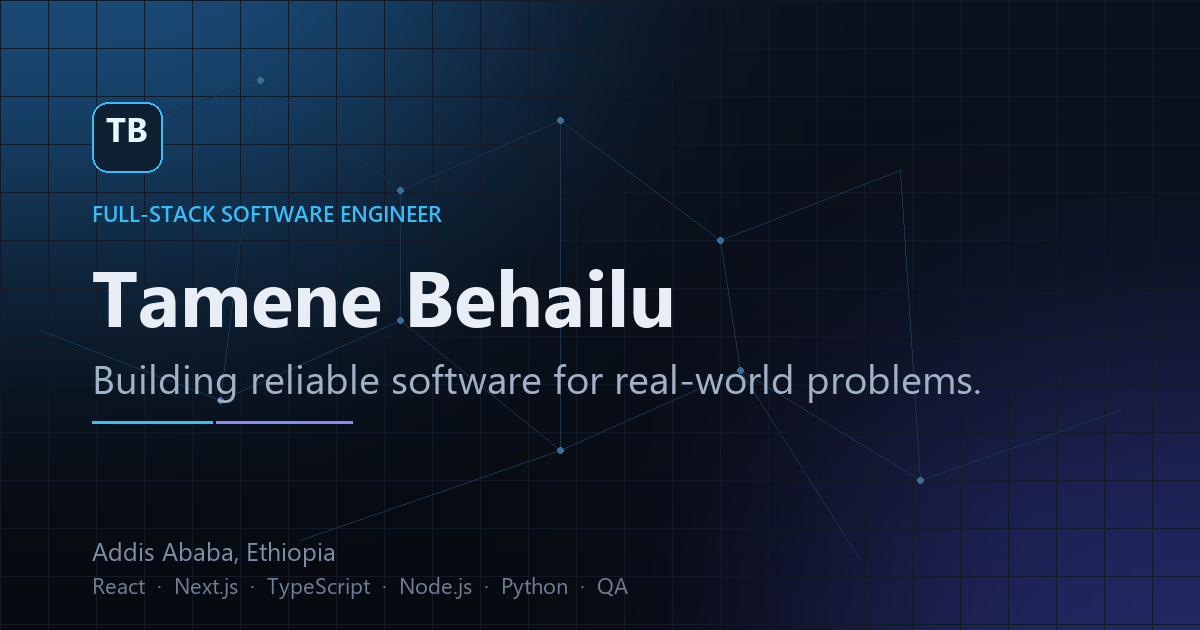
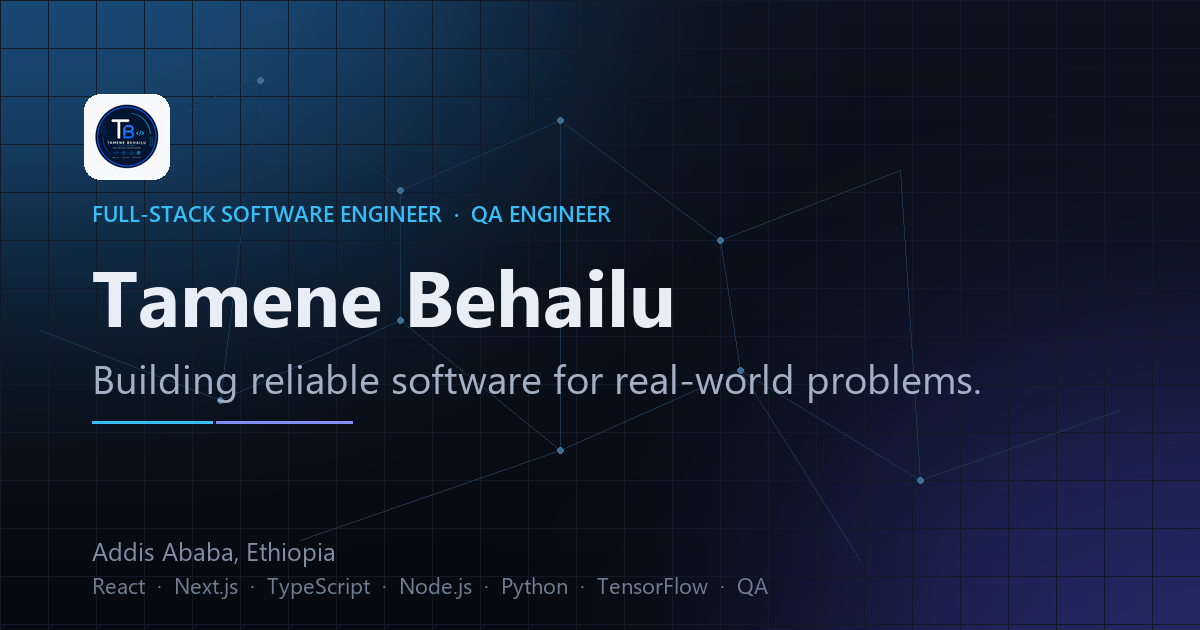
refactor: simplify the Open Graph image generator
Drops the unused monogram font, a dead font fallback expression and a
no-op blend, and composites the real logo instead of letters. The card is
regenerated from the cleaned script, so the committed PNG stays in sync with
the code that produces it.

diff --git a/tools/make-og.py b/tools/make-og.py
@@ -26,9 +26,7 @@ gd = ImageDraw.Draw(glow)
 gd.ellipse([-220, -300, 520, 250], fill=(14, 58, 92))
 gd.ellipse([820, 380, 1420, 820], fill=(28, 30, 86))
 glow = glow.filter(ImageFilter.GaussianBlur(140))
-img = Image.blend(img, Image.new("RGB", (W, H), (0, 0, 0)), 0.0)
-px_img = img
-px = px_img.load()
+px = img.load()
 gp = glow.load()
 for y in range(H):
     for x in range(W):
@@ -61,24 +59,25 @@ SEGOE = "C:/Windows/Fonts/segoeui.ttf"
 SEGOE_B = "C:/Windows/Fonts/segoeuib.ttf"
 SEGOE_SB = "C:/Windows/Fonts/seguisb.ttf"
 
-f_eyebrow = ImageFont.truetype("C:/Windows/Fonts/consola.ttf", 21) if False else ImageFont.truetype(SEGOE_SB, 22)
+f_eyebrow = ImageFont.truetype(SEGOE_SB, 22)
 f_name    = ImageFont.truetype(SEGOE_B, 78)
 f_title   = ImageFont.truetype(SEGOE, 40)
 f_meta    = ImageFont.truetype(SEGOE, 25)
-f_mark    = ImageFont.truetype(SEGOE_B, 34)
 
 LEFT = 92
 TOP  = 190
 
-# monogram
-d.rounded_rectangle([LEFT, TOP-88, LEFT+70, TOP-18], radius=16,
-                    fill=(14, 32, 50), outline=(56,189,248), width=2)
-tb = "TB"
-bb = d.textbbox((0,0), tb, font=f_mark)
-d.text((LEFT + (70-(bb[2]-bb[0]))/2 - bb[0], TOP-72 - bb[1]), tb, font=f_mark, fill=(232,246,255))
+# logo — the supplied personal logo, on its own light plate (it is opaque
+# near-white by design, which reads correctly on this dark card)
+LOGO = Image.open("assets/images/logo.png").convert("RGB").resize((70, 70), Image.LANCZOS)
+plate = Image.new("RGB", (86, 86), (248, 249, 250))
+plate.paste(LOGO, (8, 8))
+mask = Image.new("L", (86, 86), 0)
+ImageDraw.Draw(mask).rounded_rectangle([0, 0, 85, 85], radius=16, fill=255)
+img.paste(plate, (LEFT - 8, TOP - 96), mask)
 
 # eyebrow
-d.text((LEFT, TOP+8), "FULL-STACK SOFTWARE ENGINEER", font=f_eyebrow, fill=ACCENT)
+d.text((LEFT, TOP+8), "FULL-STACK SOFTWARE ENGINEER  ·  QA ENGINEER", font=f_eyebrow, fill=ACCENT)
 
 # name
 d.text((LEFT, TOP+52), "Tamene Behailu", font=f_name, fill=TEXT)
@@ -92,7 +91,7 @@ d.line([(LEFT+124, TOP+232), (LEFT+260, TOP+232)], fill=ACCENT2, width=3)
 
 # footer meta
 d.text((LEFT, H-96), "Addis Ababa, Ethiopia", font=f_meta, fill=FAINT)
-d.text((LEFT, H-60), "React  ·  Next.js  ·  TypeScript  ·  Node.js  ·  Python  ·  QA",
+d.text((LEFT, H-60), "React  ·  Next.js  ·  TypeScript  ·  Node.js  ·  Python  ·  TensorFlow  ·  QA",
        font=ImageFont.truetype(SEGOE, 22), fill=(110, 126, 148))
 
 img.save("assets/img/og-image.png", "PNG", optimize=True)
